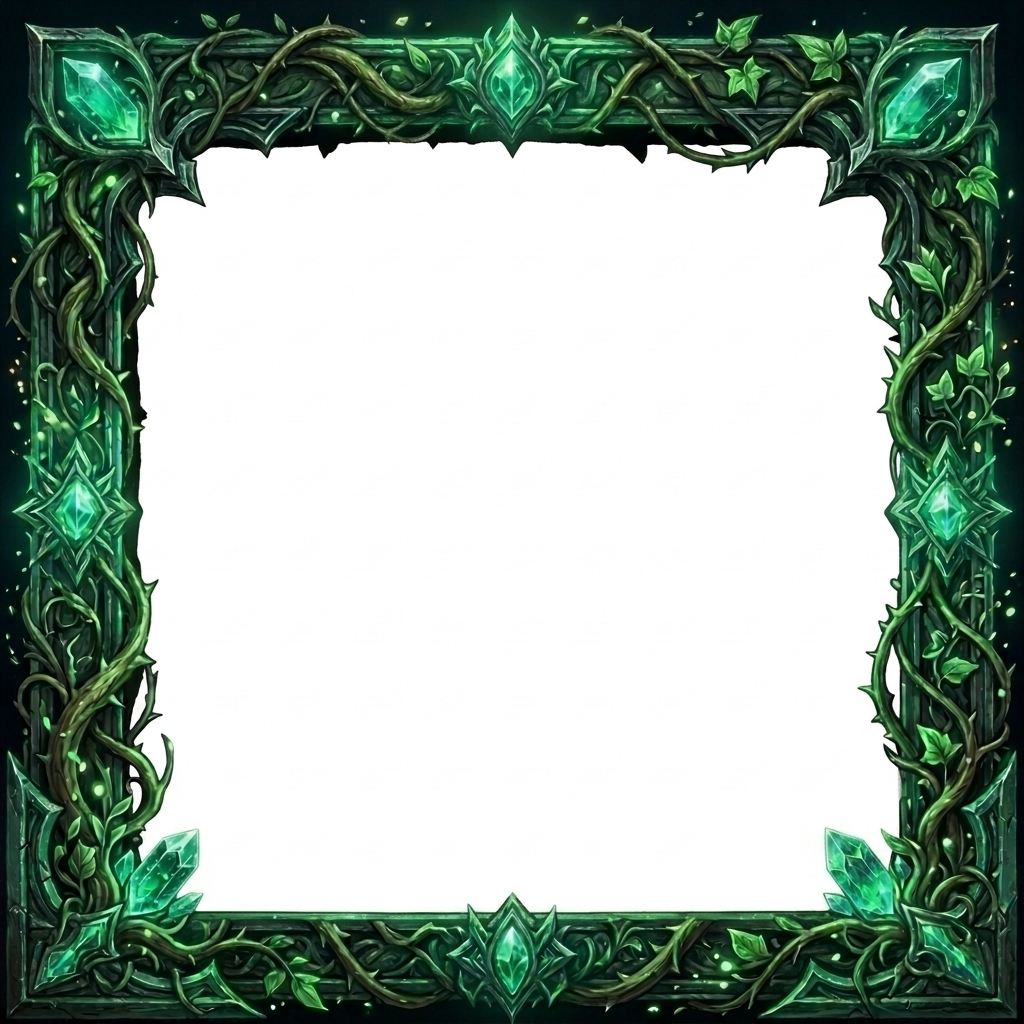
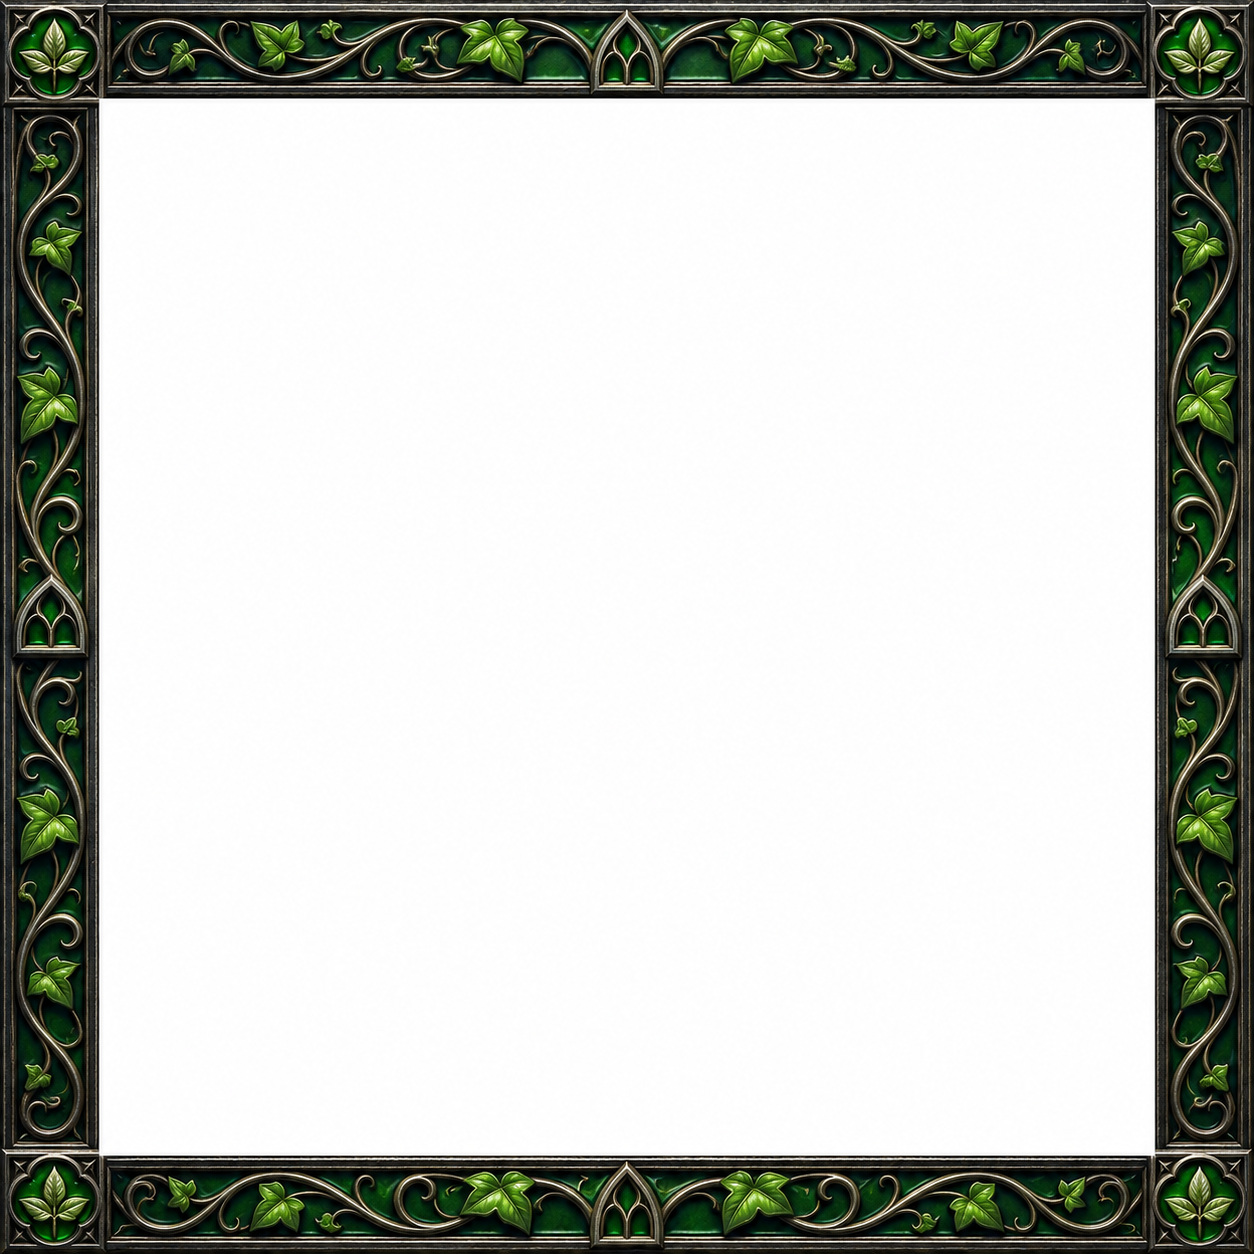
Intégrer les neuf cadres d’école de magie

diff --git a/prototype-web/ui.js b/prototype-web/ui.js
@@ -1519,8 +1519,9 @@ function renderMagicTab(c) {
 
 // Icône d'un sort (Idan, 2026-10-25) : le parchemin du sort sous le cadre de son école (spells.json : icone, cadre).
 function spellIconHtml(spell) {
-  if (!spell?.icone) return "";
-  return `<span class="spell-icon" aria-hidden="true"><img src="assets/${esc(spell.icone)}" alt="" loading="lazy">`
+  if (!spell?.icone && !spell?.cadre) return "";
+  return `<span class="spell-icon" aria-hidden="true">`
+    + `${spell.icone ? `<img src="assets/${esc(spell.icone)}" alt="" loading="lazy">` : ""}`
     + `${spell.cadre ? `<img src="assets/${esc(spell.cadre)}" alt="" loading="lazy">` : ""}</span>`;
 }
 

diff --git a/docs/TEAM.md b/docs/TEAM.md
@@ -77,6 +77,7 @@ Aucun agent ne travaille spontanément : il faut qu'une session soit lancée. Gi
 
 | Chantier | Responsable | Branche / PR | État |
 |---|---|---|---|
+| Neuf cadres d’école de magie détourés, dont le remplacement de Vie | Chatty | `chatty/spell-school-frames` | Intégration proposée vers `test` |
 | Combat lot 1 complet : Attaques d'opportunité, Frappe dans le dos, Encerclement, Courage, Fuite (+ Force de charge au Blesser) | JC3 | PR #7 | Fusionné |
 | Corrections Mission Test : second Mouvement, carte 13×9 rectangulaire et entièrement visible | JC3 | PR #7 | Fusionné |
 | Sauvegarde de la partie (automatique, « Continuer » au démarrage) | JC3 | PR #15 | Fusionné |
